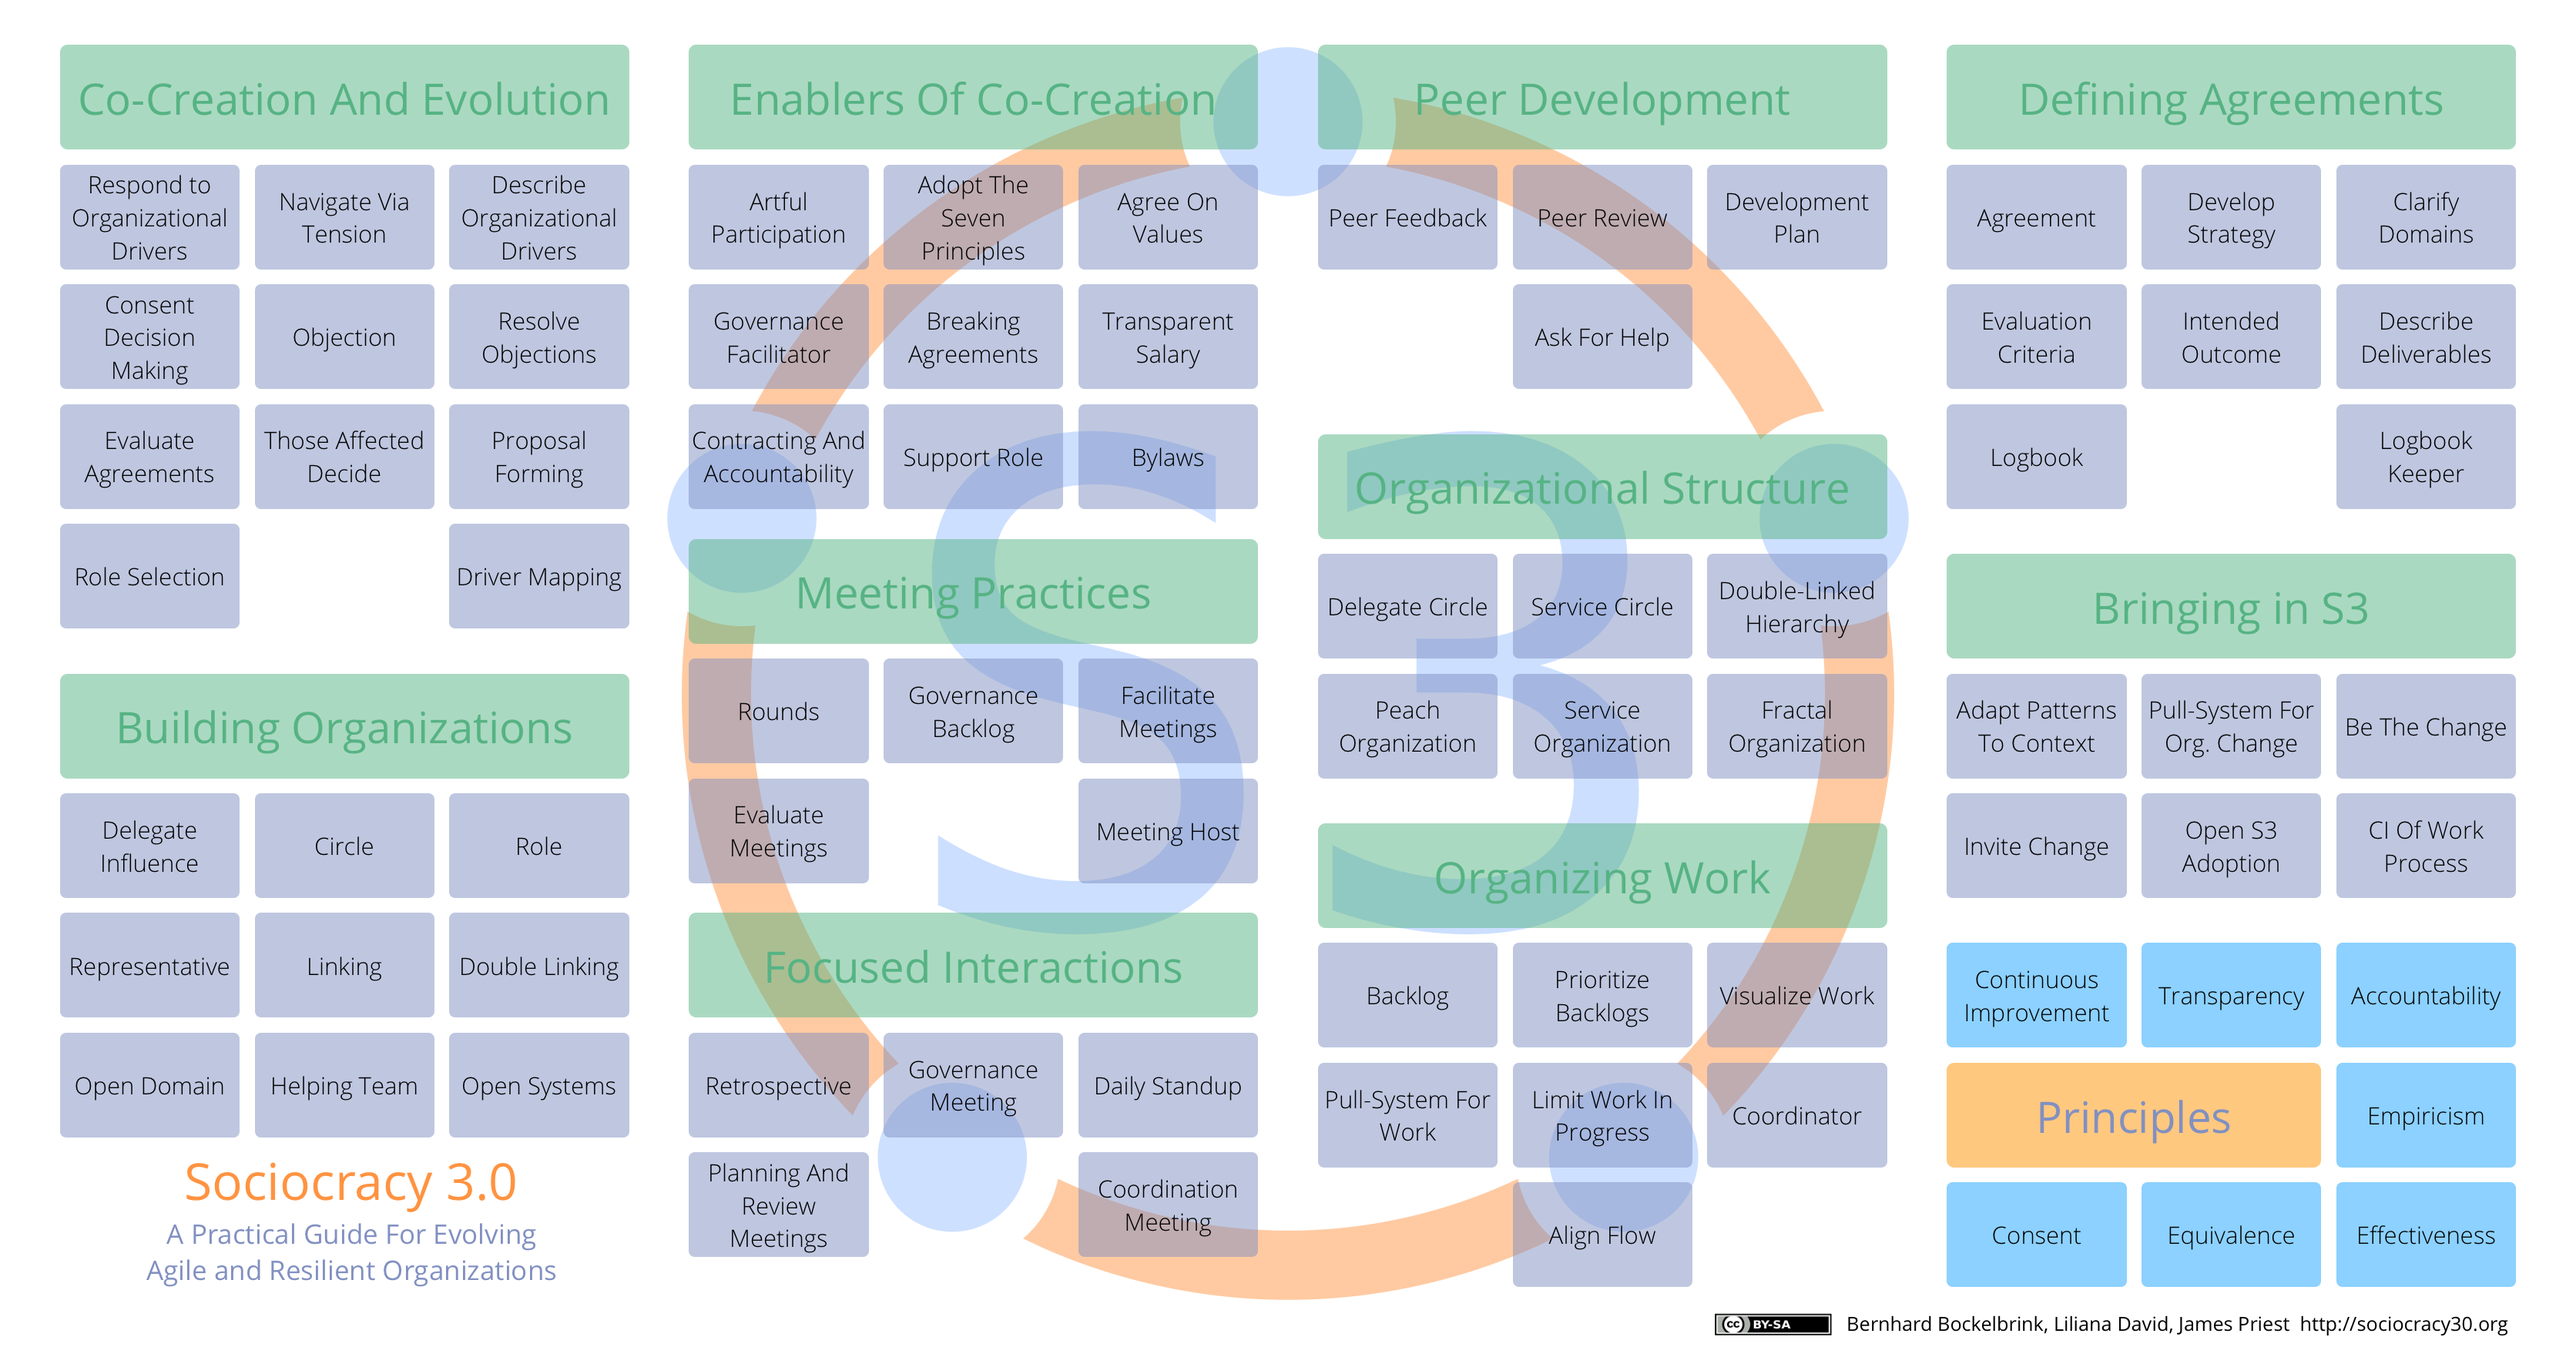
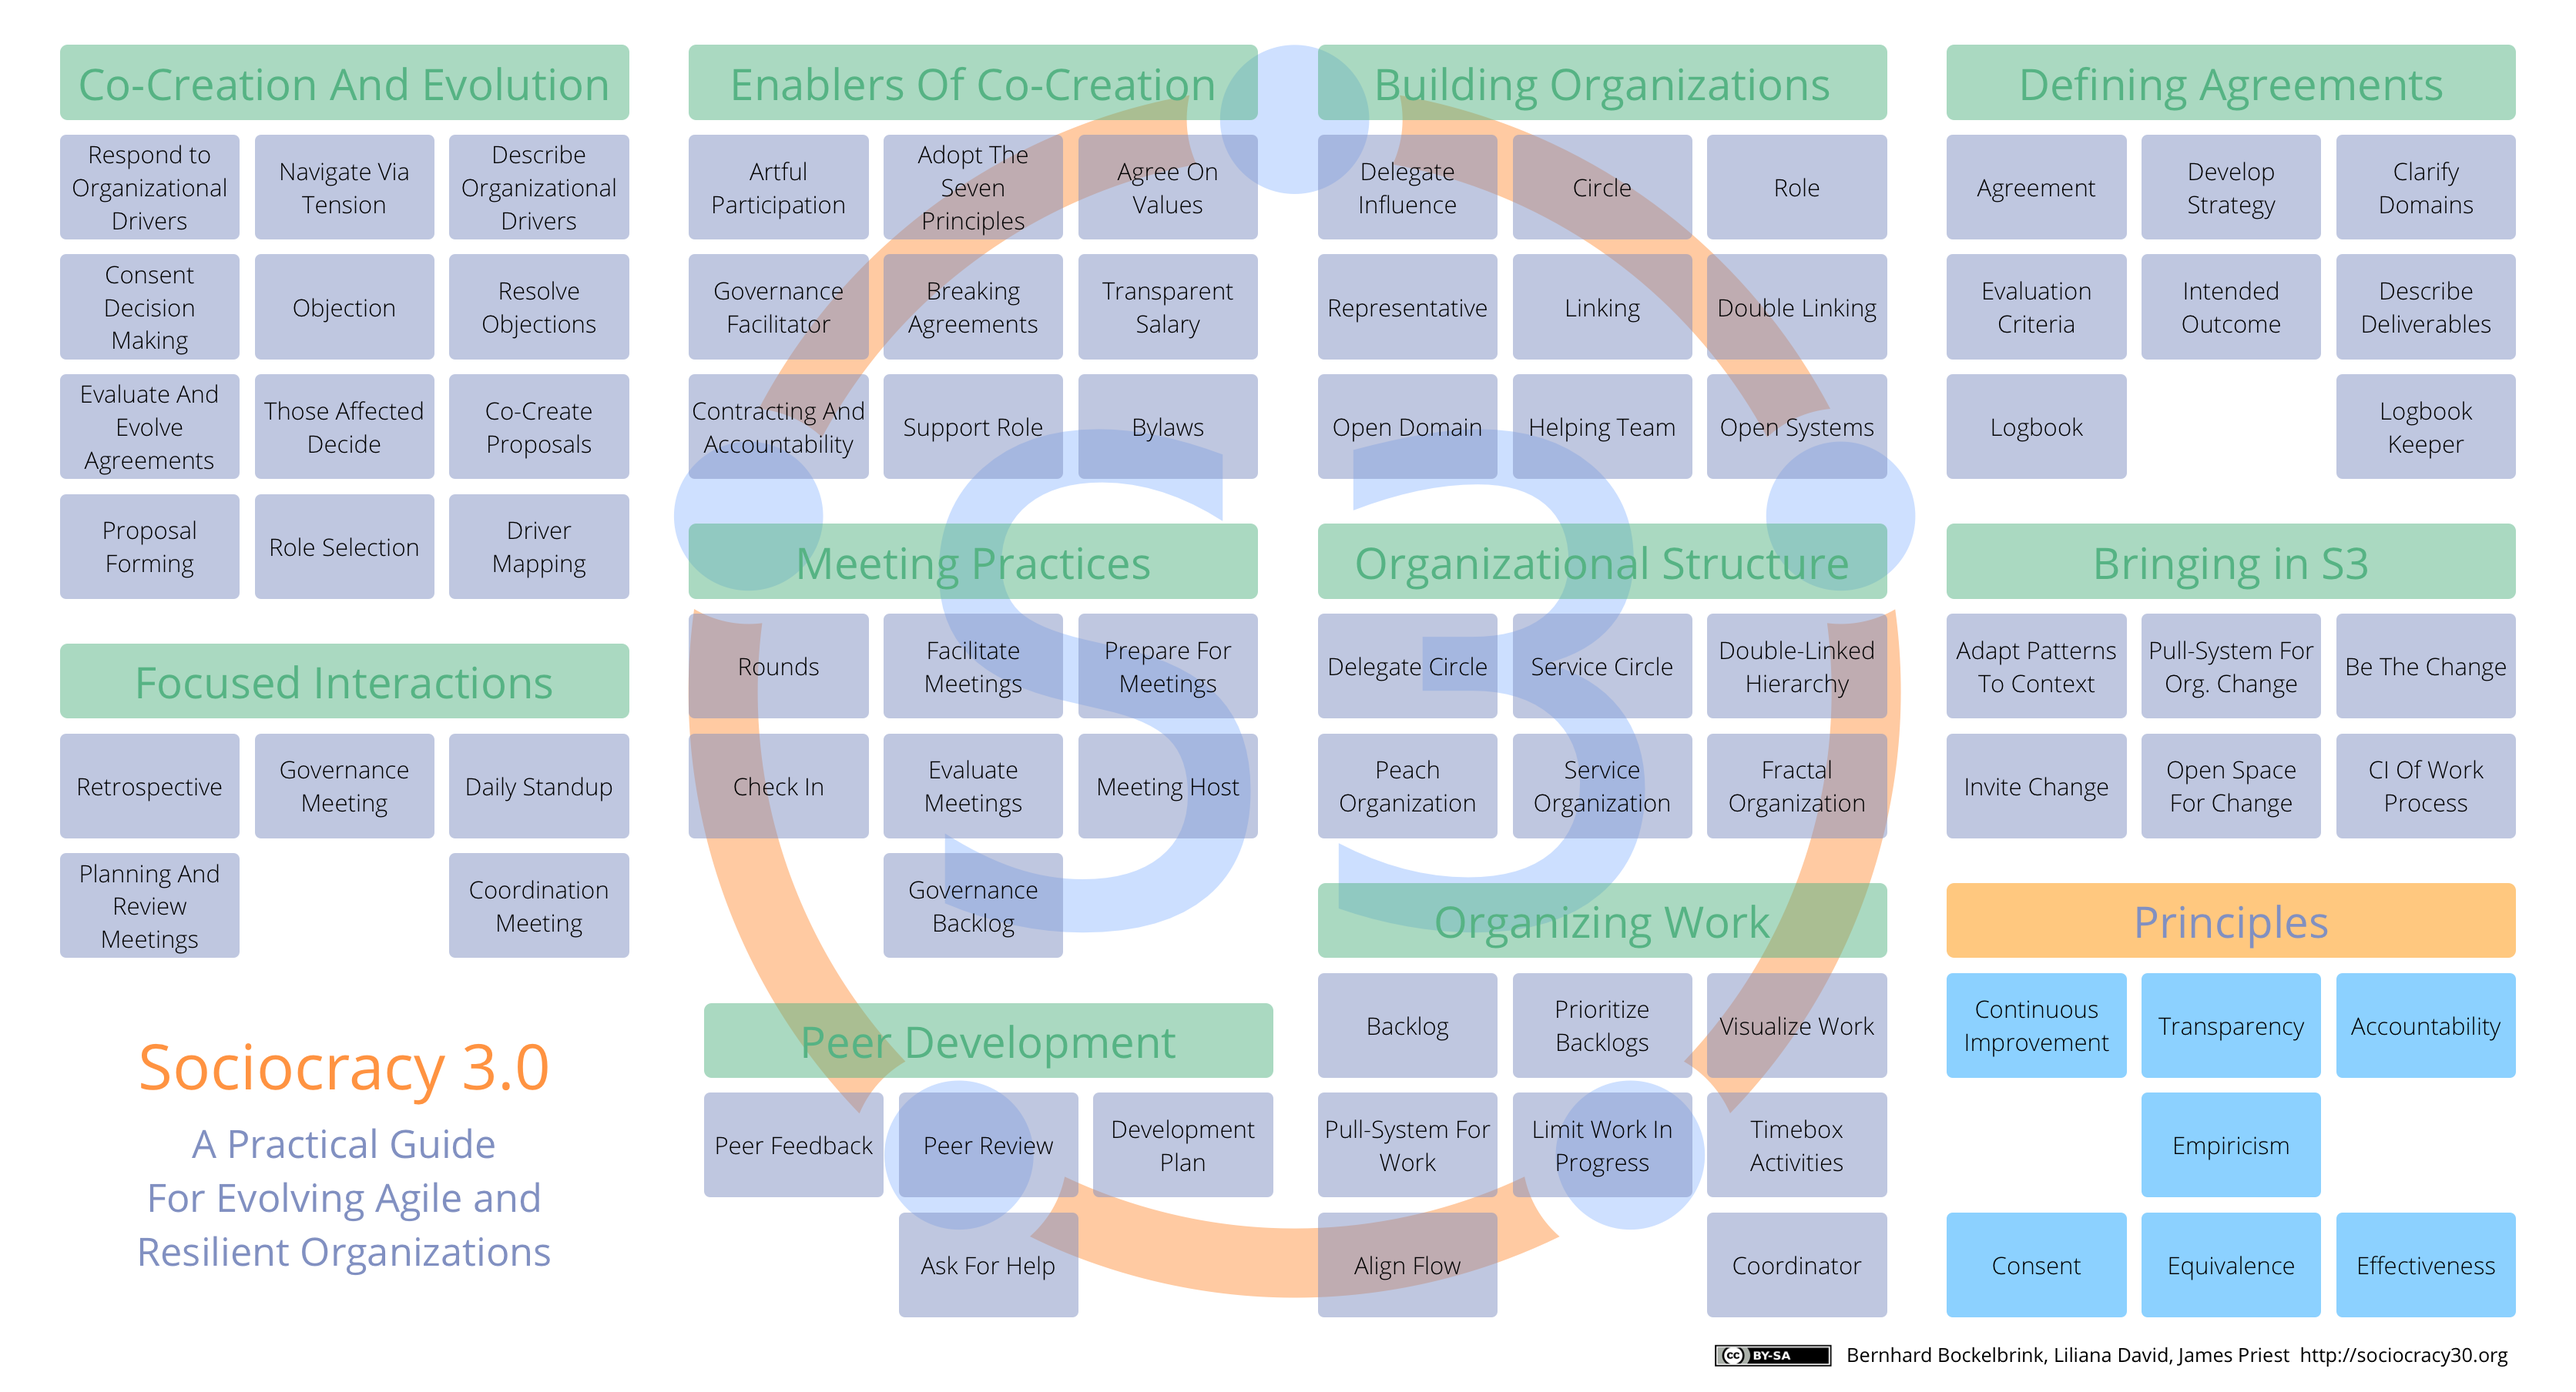
updated with all illustration changes so far
also adapted text for renamed illustrations

diff --git a/content/src/introduction/domain.md b/content/src/introduction/domain.md
@@ -21,7 +21,7 @@ Those delegating a domain (the _delegators_) still retain overall accountability
 
 ## Drivers and Domains
 
-![right,fit](img/driver-domain/domain-primay-sub.png)
+![right,fit](img/driver-domain/drivers-and-domains.png)
 
 It's also possible to understand a domain in relation to organizational drivers:
 

diff --git a/content/src/co-creation-and-evolution/navigate-via-tension.md b/content/src/co-creation-and-evolution/navigate-via-tension.md
@@ -18,5 +18,5 @@ Awareness of **organizational drivers** can be passed to an appropriate domain t
 
 ---
 
-![inline,fit](img/process/navigate-via-tension-slides.png)
+![inline,fit](img/process/navigate-describe-respond.png)
 

diff --git a/content/src/co-creation-and-evolution/proposal-forming.md b/content/src/co-creation-and-evolution/proposal-forming.md
@@ -1,6 +1,6 @@
 ## Proposal Forming
 
-![right,fit](img/agreements/proposal-forming-medium.png)
+![right,fit](img/agreements/proposal-forming.png)
 
 **A (facilitated) group process for co-creating a response to a driver.**
 

diff --git a/content/src/co-creation-and-evolution/consent-decision-making.md b/content/src/co-creation-and-evolution/consent-decision-making.md
@@ -1,6 +1,6 @@
 ## Consent Decision Making
 
-![right,fit](img/agreements/cdm-condensed.png)
+![right,fit](img/agreements/consent-decision-making.png)
 
 **A (facilitated) group process for decision making.**
 
